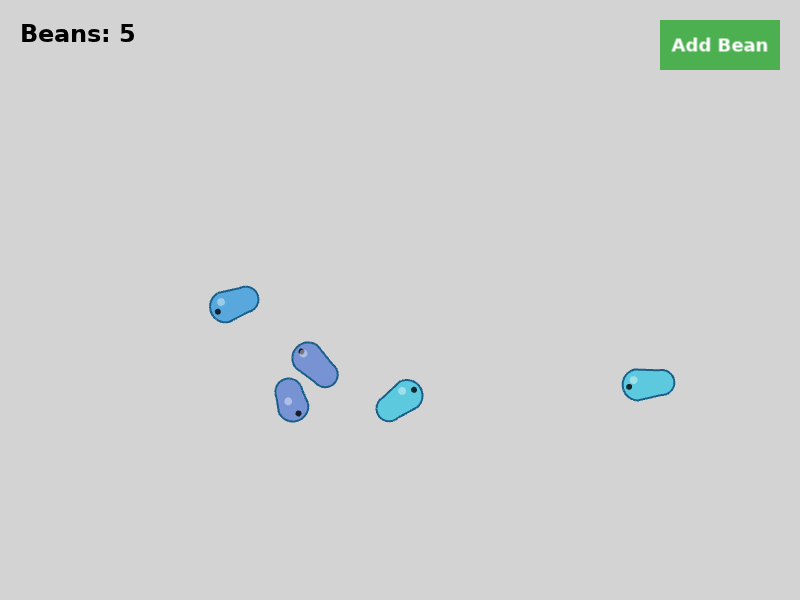
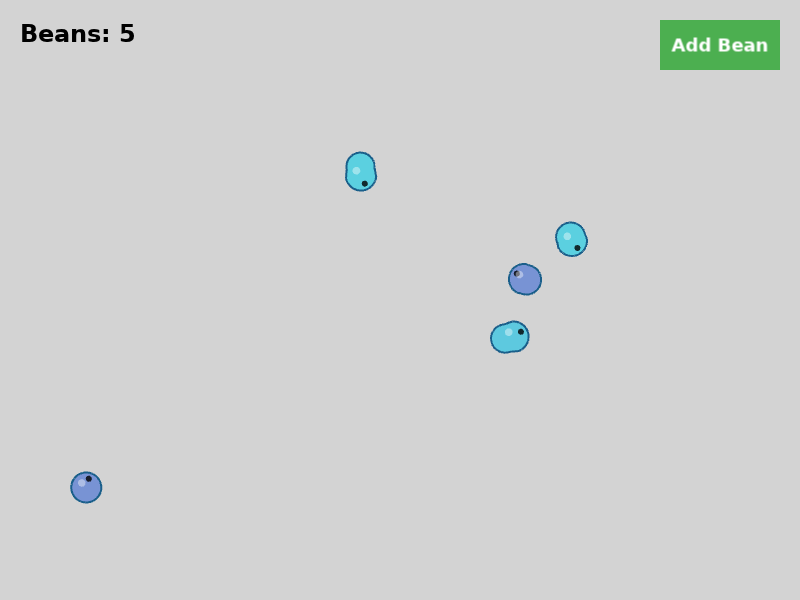
Fix bean shape to be circular when stationary
- Removed `ROPE_LENGTH` slack (set to 0) in `Bean.ts` to ensure the tail always springs back to the center.
- Added visual clamping in `drawJelly` to force distance to 0 if < 0.5, ensuring perfect circles when idle.
- Tuned `SPRING_STIFFNESS` (0.05 -> 0.1) and `DAMPING` (0.75 -> 0.6) to enhance the "q-elastic" bounce effect.

diff --git a/src/objects/Bean.ts b/src/objects/Bean.ts
@@ -21,9 +21,9 @@ export default class Bean extends Phaser.GameObjects.Container {
   private tailVelocity: Phaser.Math.Vector2;
 
   // Constants
-  private readonly SPRING_STIFFNESS = 0.05;
-  private readonly SPRING_DAMPING = 0.75;
-  private readonly ROPE_LENGTH = 10; // Slack length for "rope" feel
+  private readonly SPRING_STIFFNESS = 0.1;
+  private readonly SPRING_DAMPING = 0.6;
+  private readonly ROPE_LENGTH = 0; // Slack length for "rope" feel
   private readonly BURST_SPEED = 200; // Decreased for smoother movement
   private readonly CHARGE_DURATION = 300; // ms
   private readonly IDLE_DURATION_MIN = 500;
@@ -132,6 +132,14 @@ export default class Bean extends Phaser.GameObjects.Container {
         // Normalize direction (dx/dist, dy/dist) and scale by force
         ax = (dx / currentDist) * force;
         ay = (dy / currentDist) * force;
+    } else {
+        // Force back to center if inside slack (though slack is now 0)
+        // This ensures it centers perfectly
+         const force = currentDist * this.SPRING_STIFFNESS;
+         if (currentDist > 0) {
+             ax = (dx / currentDist) * force;
+             ay = (dy / currentDist) * force;
+         }
     }
 
     // Update velocity
@@ -180,7 +188,10 @@ export default class Bean extends Phaser.GameObjects.Container {
     this.bodyGraphics.clear();
 
     // Calculate geometry
-    const dist = tailOffset.length();
+    let dist = tailOffset.length();
+
+    // Snap to 0 if very small to ensure perfect circle
+    if (dist < 0.5) dist = 0;
 
     // Deformation: As distance increases, Head grows slightly, Tail shrinks
     // Limit dist to avoid breaking geometry
